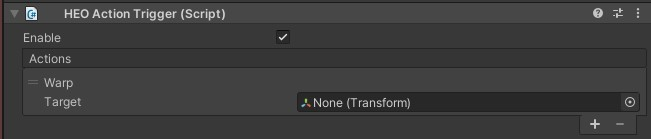
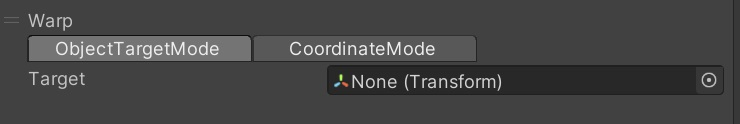
Transform画像更新・Warp内容も一部更新

diff --git a/docs/Actions/Transform/Warp.ja.md b/docs/Actions/Transform/Warp.ja.md
@@ -2,10 +2,14 @@
 
 ![Warp](img/Warp.jpg)
 
+![Warp](img/WarpCoordinate.jpg)
+
+
 ワープアクションは、プレイヤーを指定のオブジェクトの座標に瞬間移動させます。
 
 | 名称 |  機能  |
 | ----   | ---- |
+| Mode | シーン内のオブジェクトを選択するか、直接座標を入力してワープ目標を指定する方法に切り替えられます。 |
 | Target | ワープ目標となるオブジェクトを指定します |
 
 !!! Caution "注意点"

diff --git a/docs/Actions/Transform/Warp.en.md b/docs/Actions/Transform/Warp.en.md
@@ -2,11 +2,17 @@
 
 ![Warp](img/Warp.jpg)
 
+![Warp](img/WarpCoordinate.jpg)
+
 The action "Warp" teleports the player to the designated object's position.
 
 |  Label |  Function  |
 | ----   | ---- |
+| Mode | You can designate the warp target by selecting the object in the scene or by inputting the coordinates directly. |
 | Target | Designates the warp target |
+
+
+
 
 !!! Caution "Usage Cautions"
     - Rotation only applies to the Y-axis.
